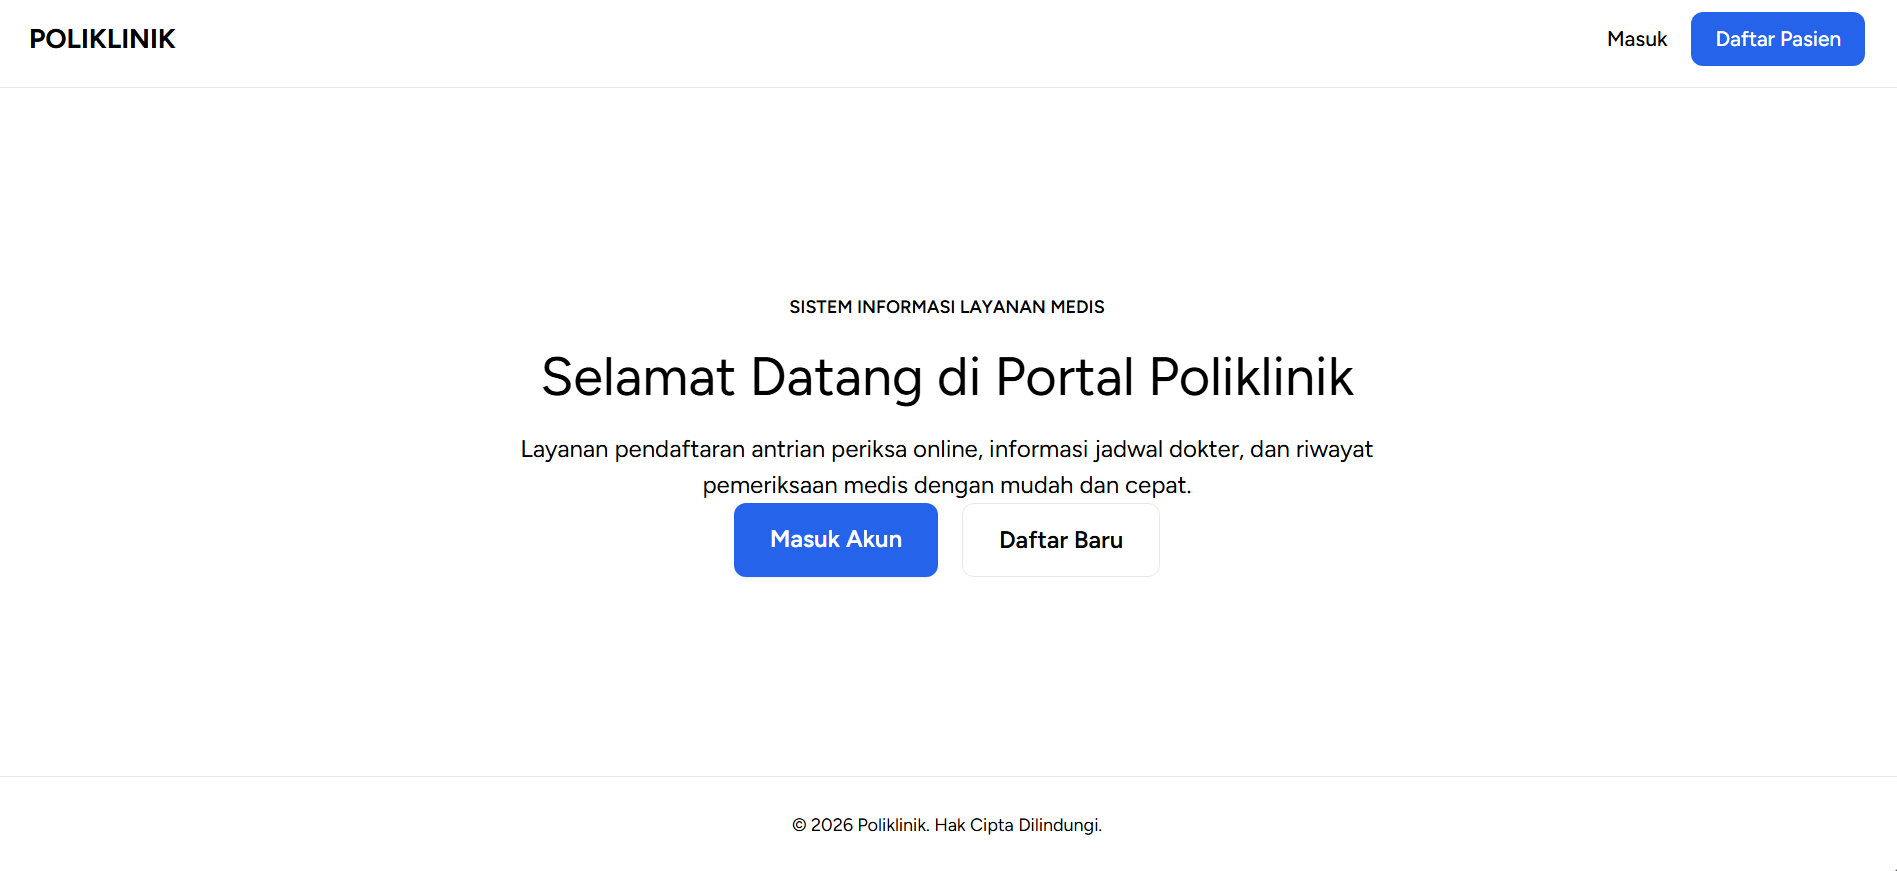
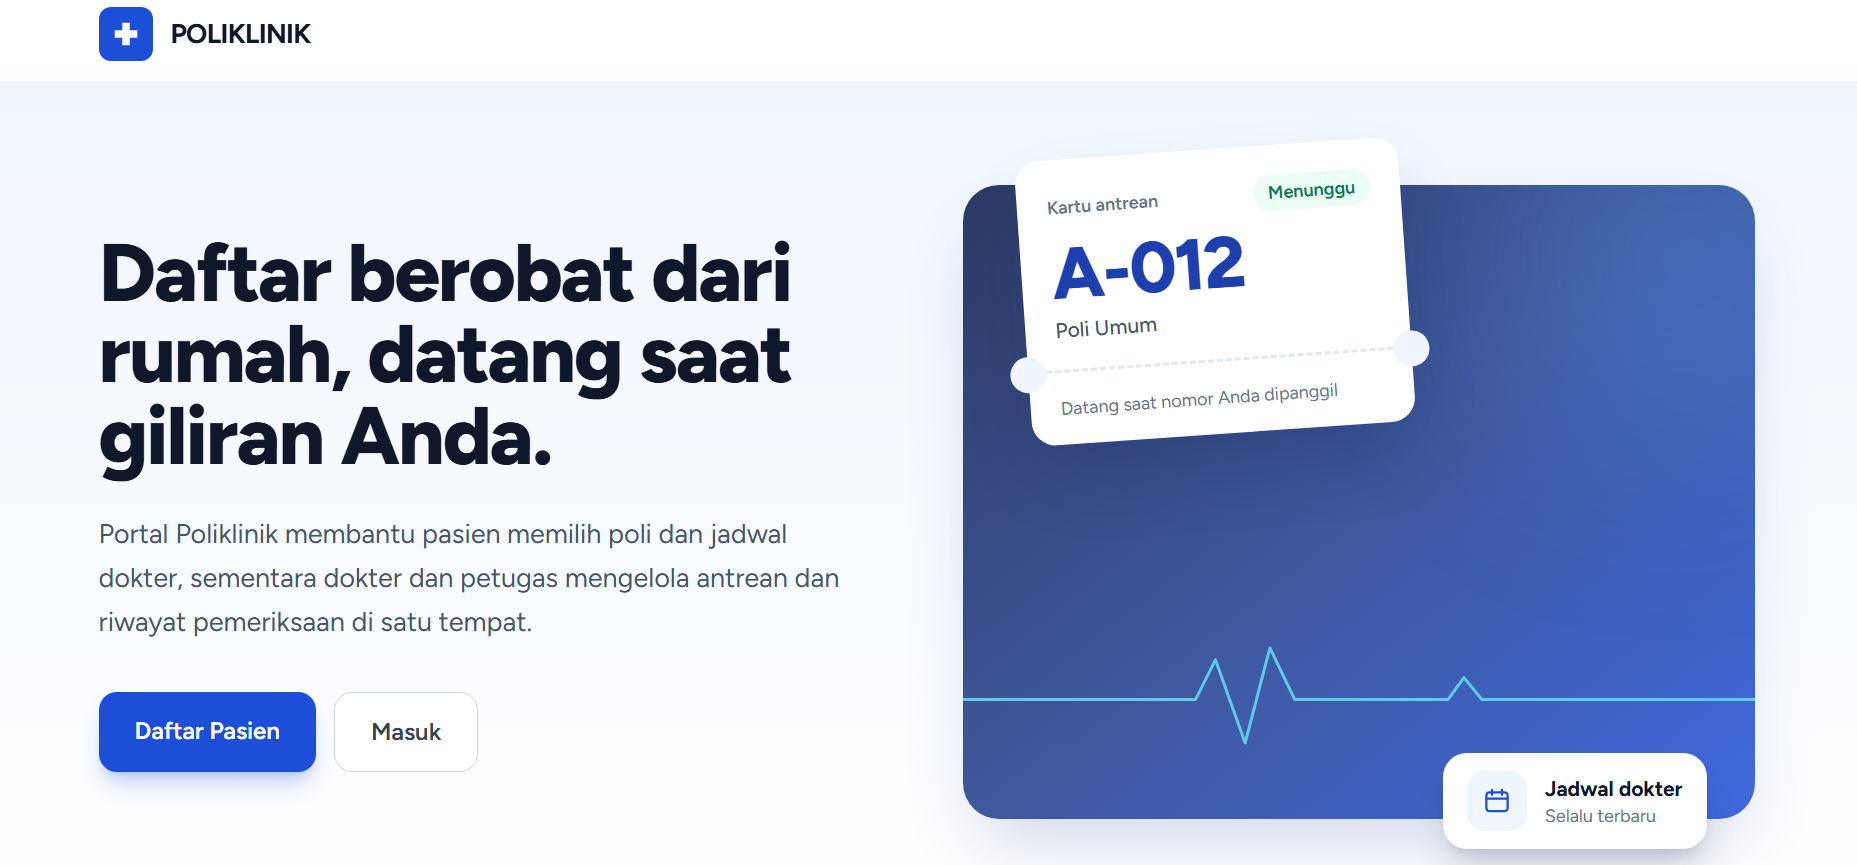
update project

diff --git a/index.html b/index.html
@@ -266,11 +266,11 @@
         
                 <div class="portfolio">
                     <div class="portfolio-cover">
-                        <img src="./images/portfolio/porto2.png" alt="Appointment Scheduling System">
+                        <img src="./images/portfolio/porto2.png" alt="Polyclinic Information system">
                     </div>
                     <div class="portfolio-info">
-                        <div class="portfolio-title">
-                            <h4>Appointment Scheduling</h4>
+                        <div class="portfolio-title"> 
+                            <h4>Polyclinic Information System</h4>
 
                             <a href="https://github.com/ardyanwahyu/poliklinik"
                                 target="_blank"

diff --git a/styles/style.css b/styles/style.css
@@ -179,7 +179,7 @@ nav ul li a:hover {
 }
 
 .hero-name {
-  font-size: clamp(2rem, 3.5vw, 3rem);
+  font-size: clamp(2rem, 3.5vw, 3rem);  
   font-weight: 600;
   line-height: 1.3;
   margin: 0.5rem 0 0.6rem;
@@ -187,18 +187,18 @@ nav ul li a:hover {
 }
 
 .hero-name #typing-name {
-    color: var(--primaryTextColor);
+  color: var(--primaryTextColor);
 }
 
 .hero-name .typing-cursor {
-    color: var(--primaryIconColor);
-    animation: blink-cursor 0.7s steps(1) infinite;
+  color: var(--primaryIconColor);
+  animation: blink-cursor 0.7s steps(1) infinite;
 }
 
 @keyframes blink-cursor {
-    50% {
-        opacity: 0;
-    }
+  50% {
+    opacity: 0;
+  }
 }
 
 .hero-right {
